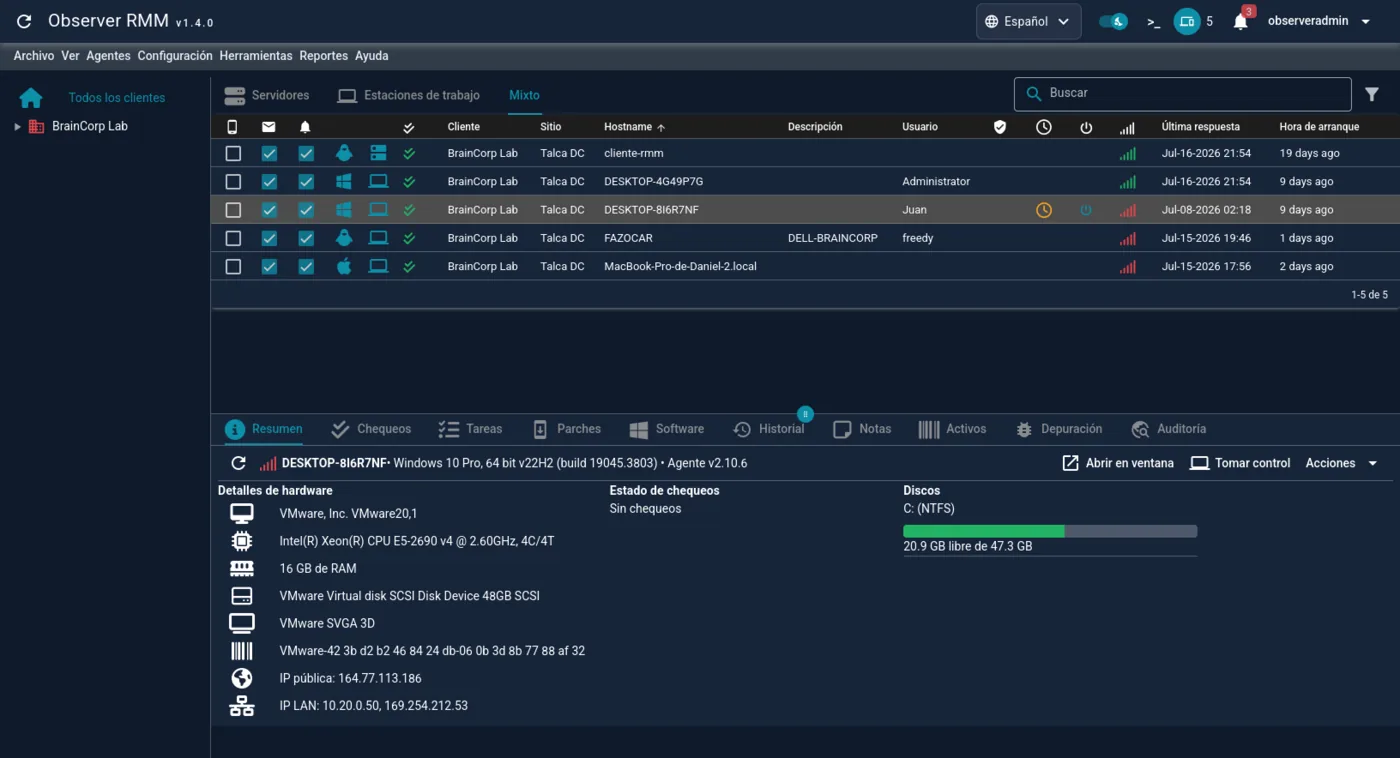
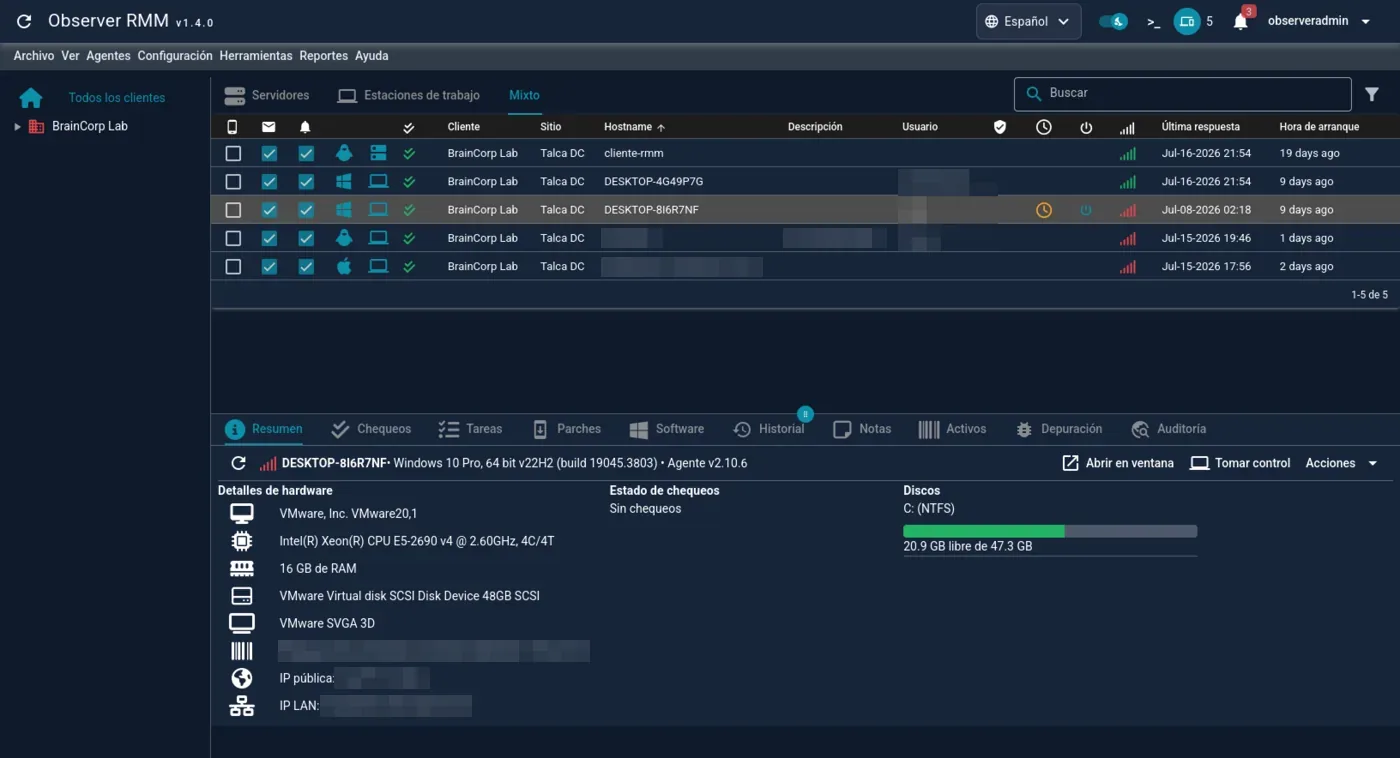
docs(site): redactar datos identificatorios en las dos capturas de julio 16
Ahora que el sitio se indexa a propósito, esas capturas eran contenido que
buscamos que se encuentre, y mostraban nombres de usuario (Juan, freedy,
Administrator), el hostname MacBook-Pro-de-Daniel-2.local, el nombre de un
cliente (FAZOCAR / DELL-BRAINCORP), la IP pública 164.77.113.186, las IP LAN y
el serial de la VM.

Se redacta por pixelado grueso (región al 7% y de vuelta) y no por desenfoque: un
blur suave sobre texto de fuente conocida y alfabeto acotado —una IP son 15
caracteres de 11 símbolos posibles— es recuperable. Verificado ampliando al 200%:
nada legible.

Se dejan a la vista los hostnames genéricos (cliente-rmm, DESKTOP-*), que no
identifican a nadie y hacen que la captura siga pareciendo real.

Las URLs suben a ?v=2 porque el nombre de archivo no cambia y el NPM cachea los
assets ~6 h: sin el bump se seguiría sirviendo la versión sin redactar.
Verificado que el md5 servido es el de la imagen redactada.

Changed region(s): [[0.1843, 0.8193, 0.43, 0.9406], [0.5529, 0.2124, 0.7064, 0.3338], [0.43, 0.3034, 0.5529, 0.3641]]

diff --git a/docs-site/features/index.html b/docs-site/features/index.html
@@ -84,13 +84,13 @@
       </div>
 
       <figure class="doc-shot">
-        <img src="/assets/shots/dashboard.webp?v=1" width="1400" height="758" loading="eager" fetchpriority="high" alt="Consola principal de Observer RMM">
+        <img src="/assets/shots/dashboard.webp?v=2" width="1400" height="758" loading="eager" fetchpriority="high" alt="Consola principal de Observer RMM">
         <figcaption><span class="lang-es">La consola principal: flota de equipos por cliente y sitio, con estado en tiempo real.</span><span class="lang-en">The main console: fleet of machines by client and site, with real-time status.</span></figcaption>
       </figure>
 
       <h2 id="acceso-remoto"><span class="lang-es">Acceso y control remoto</span><span class="lang-en">Remote access &amp; control</span></h2>
       <figure class="doc-shot">
-        <img src="/assets/shots/agente-panel.webp?v=1" width="1400" height="758" loading="lazy" decoding="async" alt="Panel del agente con control remoto">
+        <img src="/assets/shots/agente-panel.webp?v=2" width="1400" height="758" loading="lazy" decoding="async" alt="Panel del agente con control remoto">
         <figcaption><span class="lang-es">Panel de un equipo: control remoto, resumen de hardware, discos y estado de chequeos.</span><span class="lang-en">A machine's panel: remote control, hardware summary, disks, and check status.</span></figcaption>
       </figure>
       <div class="feature-grid">
